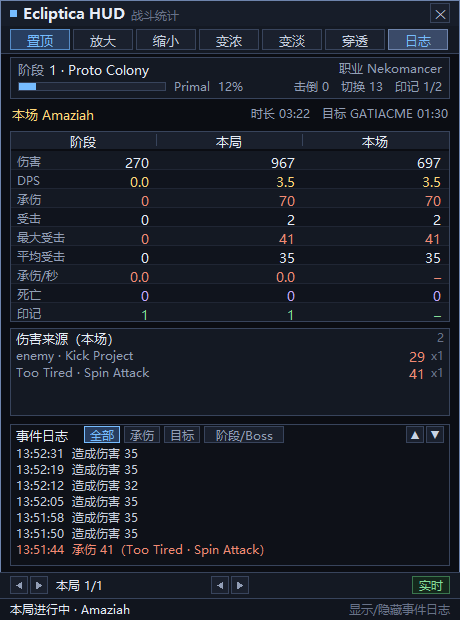
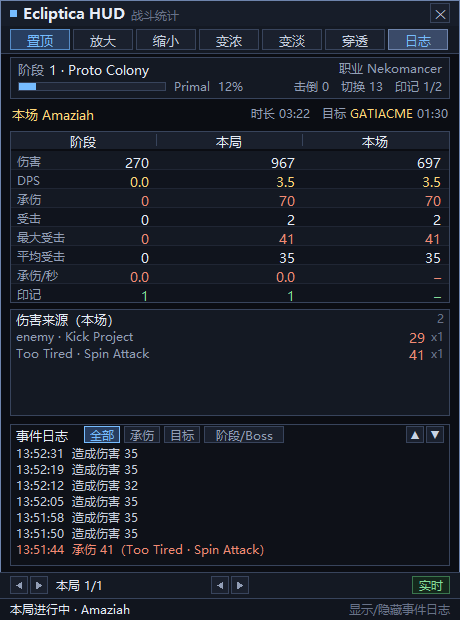
Add files via upload

Changed region(s): [[0.0304, 0.4597, 0.9739, 0.6129], [0.7609, 0.1532, 0.8826, 0.2145]]

diff --git a/src/stats.c b/src/stats.c
@@ -524,10 +524,12 @@ bool stats_on_event(Stats* s, const Event* e)
     }
 
     case EV_PLAYER_DEAD: {
-        /* 一次死亡常常连刷几十行 "Local controller dead"（实测 8 秒内 34 行），
-         * 而且中间还会混入 ECLIPTICA saving SESSION ID 之类的无关行。
-         * 判据：必须"上次死亡之后又出现了活着的证据"才允许再计一次，
-         * 再加一个静默期兜底，避免把同一次死亡的连刷算成多次。*/
+        /* 死亡次数**不再计入任何统计**（已按需求移除），但事件日志仍要记一条，
+         * 而且一次死亡常常连刷几十行 "Local controller dead"（实测 8 秒内 34 行），
+         * 中间还会混入 "ECLIPTICA saving SESSION ID" 之类的无关行。
+         * 所以这里的去重仍然必要：必须"上次死亡之后又出现了活着的证据"
+         * 才允许再记一条，再加一个静默期兜底，否则日志会被刷屏。
+         * 返回值即"是否采纳"，调用方据此决定要不要写进事件日志。*/
         if (!s->in_run) return false;
         const double DEATH_HOLD = 3.0;
         bool prev = s->last_death_t > 0;
@@ -536,10 +538,7 @@ bool stats_on_event(Stats* s, const Event* e)
         if (prev && t - s->last_death_t < DEATH_HOLD) return false;
 
         s->last_death_t = t;
-        s->alive_t = 0;                       /* 需要新的存活证据才能再计一次 */
-        s->run_u.a.deaths++;
-        if (s->in_fight) s->fight_u.a.deaths++;
-        if (s->in_stage) s->stage_u.a.deaths++;
+        s->alive_t = 0;                       /* 需要新的存活证据才能再记一次 */
         break;
     }
 

diff --git a/src/hud.c b/src/hud.c
@@ -33,7 +33,7 @@
 #define C_PURPLE     RGB(196, 168, 255)
 
 /* ---------------- 逻辑版式常量 ---------------- */
-#define TABLE_ROWS 9
+#define TABLE_ROWS 8
 #define ROW_H      19
 #define PAD        10
 #define TITLE_H    26
@@ -496,8 +496,7 @@ static COLORREF row_color(int row)
     case 2: return C_RED;       /* 承伤 */
     case 4: return C_RED;       /* 最大受击 */
     case 6: return C_RED;       /* 承伤/秒 */
-    case 7: return C_PURPLE;    /* 死亡 */
-    case 8: return C_GREEN;     /* 印记 */
+    case 7: return C_GREEN;     /* 印记 */
     default: return C_TEXT;
     }
 }
@@ -543,7 +542,6 @@ static void draw_table(HDC dc, const HudLayout* L, const StatsView* v)
         rn->hits > 0 ? rn->taken / rn->hits : 0,
         ft->hits > 0 ? ft->taken / ft->hits : 0, true);
     ROW(TXT_ROW_TPS,    FMT_RATE,   v->taken_per_sec, v->taken_per_sec, 0, false);
-    ROW(TXT_ROW_DEATHS, FMT_INT,    sg->deaths, rn->deaths, ft->deaths, true);
     ROW(TXT_ROW_TOKENS, FMT_INT,    sg->tokens, rn->tokens, 0, false);
 #undef ROW
 

diff --git a/src/stats.h b/src/stats.h
@@ -29,7 +29,7 @@ typedef struct { double t, v; } Sample;
 /* 聚合量（无滑动窗口，可安全长期保存） */
 typedef struct {
     double dmg, taken, max_hit;
-    int    hits, deaths, tokens;
+    int    hits, tokens;
 } Agg;
 
 /* 某个敌方单位最近一次已知的归属（"ownership of X transferred to Y"）*/
@@ -140,7 +140,7 @@ typedef struct {
     int    view_fight;         /* -1 = 最新一场 */
 
     char   last_text[96];      /* 最近一条事件描述（供状态栏） */
-    double last_death_t;       /* 上次计入的死亡时间 */
+    double last_death_t;       /* 上次记入事件日志的死亡时间（仅用于去重）*/
     double alive_t;            /* 最近一次"还活着"的证据时间 */
 } Stats;
 

diff --git a/src/zhtext.h b/src/zhtext.h
@@ -47,7 +47,6 @@
 #define TXT_ROW_MAXHIT   "最大受击"
 #define TXT_ROW_AVGHIT   "平均受击"
 #define TXT_ROW_TPS      "承伤/秒"
-#define TXT_ROW_DEATHS   "死亡"
 #define TXT_ROW_TOKENS   "印记"
 
 /* 信息区 */
